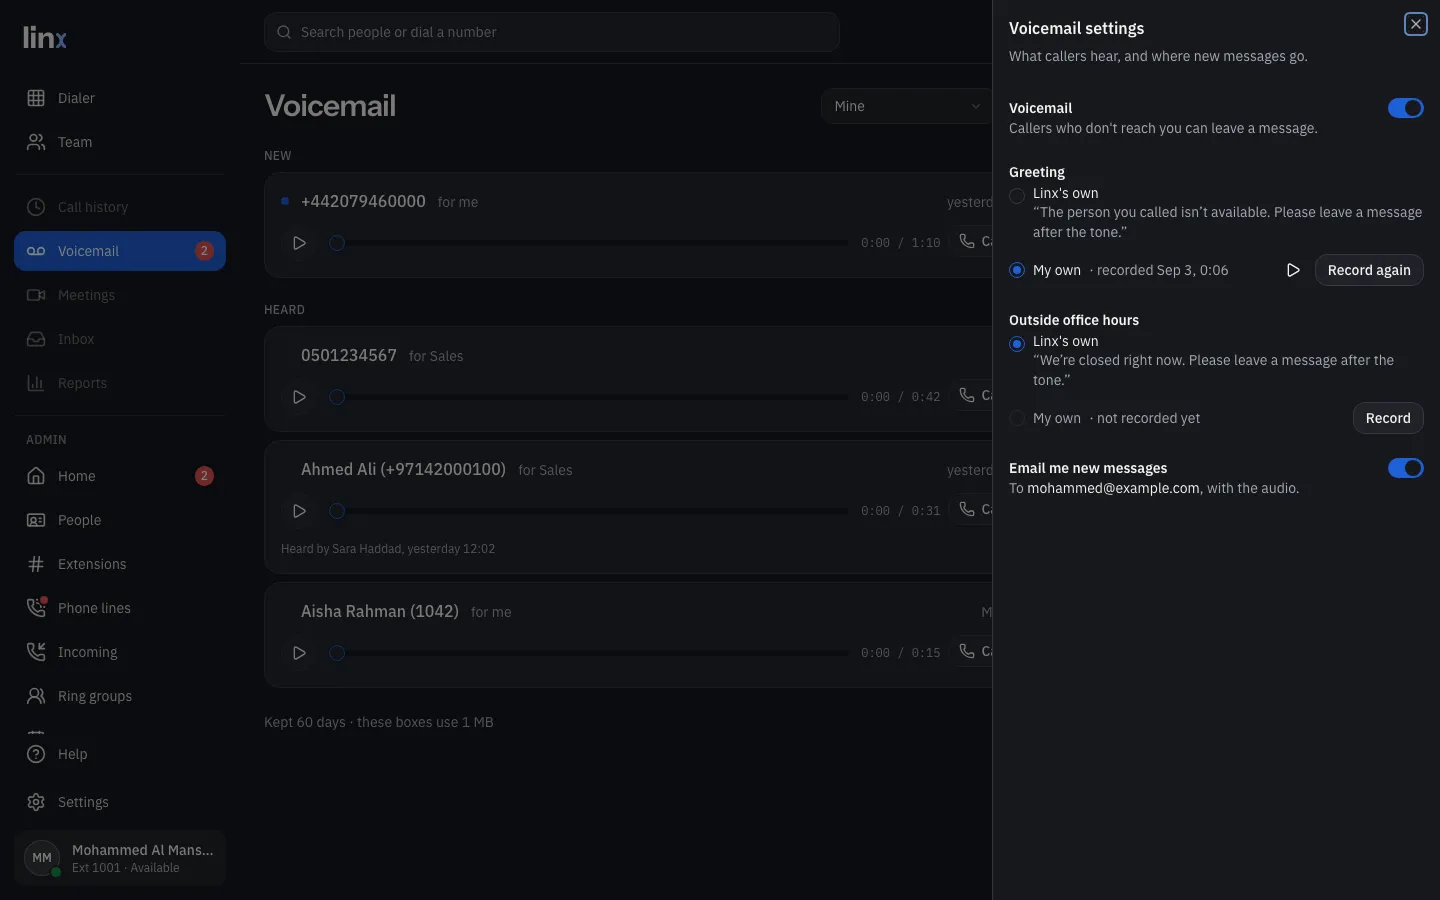
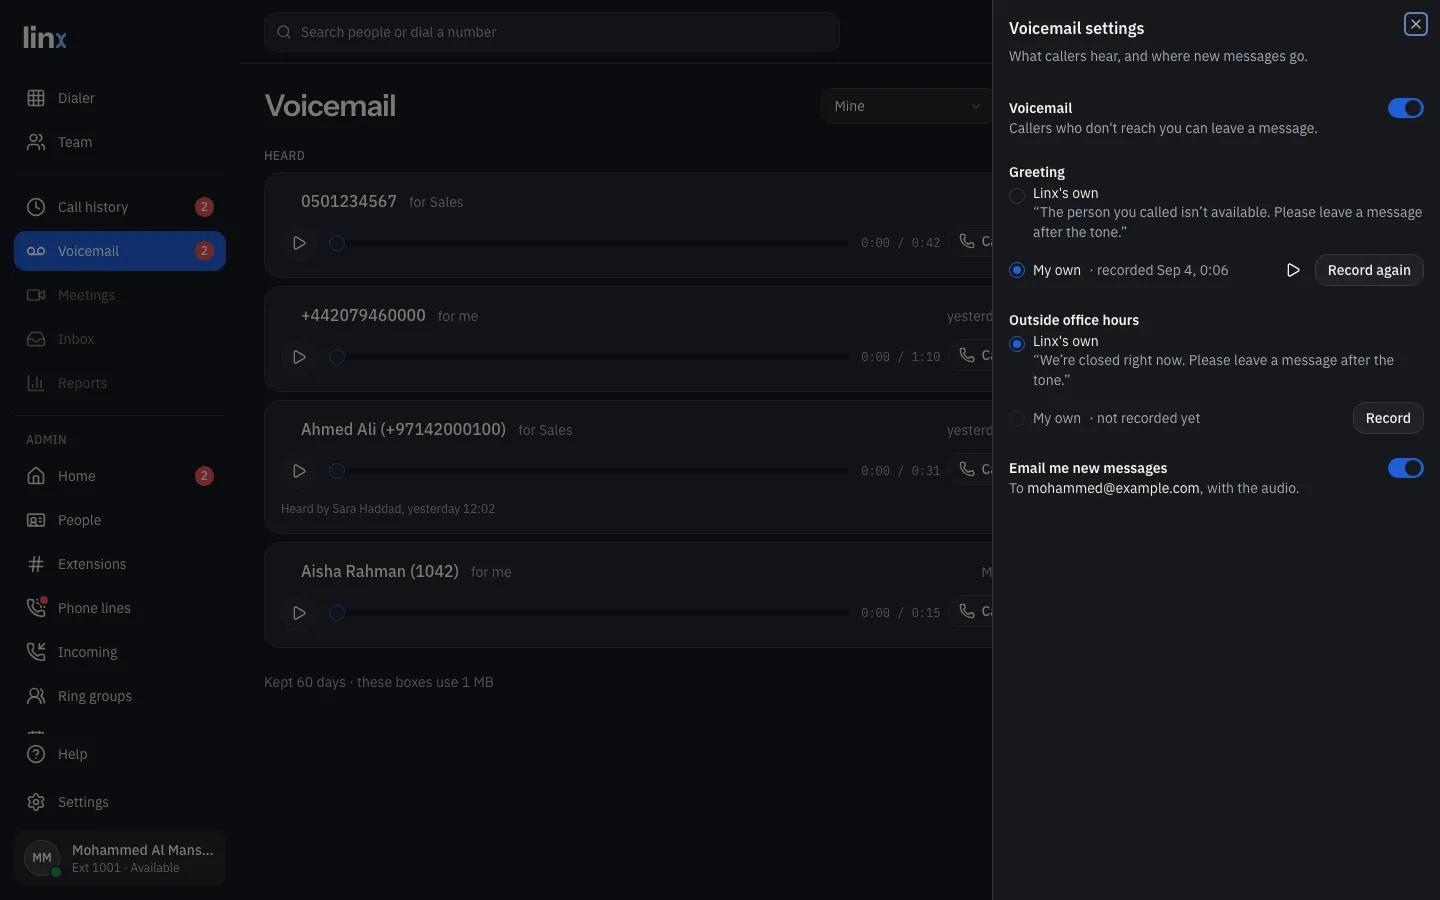
Voicemail: skipping to the end marks a message heard
Only playing a message out marked it heard; taking the slider to its end
didn't. The slider's handle now carries its name too, so screen readers
announce it. Found in Demo B.

Claude-Session: https://claude.ai/code/session_01JipRMDmMufjRX6khmanBGh

diff --git a/web/src/screens/Voicemail.tsx b/web/src/screens/Voicemail.tsx
@@ -45,12 +45,19 @@ export function when(iso: string, now = new Date()): string {
   return `${d.toLocaleDateString(undefined, { day: "numeric", month: "short" })} ${time}`;
 }
 
-/** The player: ▶, a slider, the time; marks the message heard when it plays to the end. */
+/** The player: ▶, a slider, the time; marks the message heard when it
+ * plays to the end, or the slider is taken to its end. */
 function Player({ m, onEnded }: { m: Message; onEnded: () => void }) {
   const audio = useRef<HTMLAudioElement | null>(null);
   const [playing, setPlaying] = useState(false);
   const [at, setAt] = useState(0);
   const total = m.duration_ms / 1000;
+  const reached = useRef(false);
+  const end = () => {
+    if (reached.current) return;
+    reached.current = true;
+    onEnded();
+  };
   useEffect(() => () => audio.current?.pause(), []);
   const toggle = () => {
     if (!audio.current) {
@@ -58,7 +65,7 @@ function Player({ m, onEnded }: { m: Message; onEnded: () => void }) {
       a.ontimeupdate = () => setAt(a.currentTime);
       a.onpause = () => setPlaying(false);
       a.onplay = () => setPlaying(true);
-      a.onended = () => { setPlaying(false); setAt(0); onEnded(); };
+      a.onended = () => { setPlaying(false); setAt(0); end(); };
       audio.current = a;
     }
     if (playing) audio.current.pause();
@@ -70,7 +77,13 @@ function Player({ m, onEnded }: { m: Message; onEnded: () => void }) {
         {playing ? <Pause aria-hidden="true" /> : <Play aria-hidden="true" />}
       </Button>
       <Slider aria-label="Position" className="min-w-16 flex-1" min={0} max={Math.max(1, Math.round(total * 10))} step={1}
-        value={[Math.round(at * 10)]} onValueChange={([v]) => { const t = (v ?? 0) / 10; setAt(t); if (audio.current) audio.current.currentTime = t; }} />
+        value={[Math.round(at * 10)]} onValueChange={([v]) => {
+          const t = (v ?? 0) / 10;
+          setAt(t);
+          if (audio.current) audio.current.currentTime = t;
+          // Taken to the end (the rest skipped): heard, as when it plays out.
+          if (t >= total - 0.5) end();
+        }} />
       <span className="w-20 shrink-0 text-end font-mono text-xs tabular-nums text-muted-foreground">{clock(at)} / {clock(total)}</span>
     </div>
   );

diff --git a/web/e2e/screens.spec.ts b/web/e2e/screens.spec.ts
@@ -633,6 +633,12 @@ for (const scheme of ["light", "dark"] as const) {
       // Playing to the end marks it heard.
       await page.getByRole("button", { name: "Play the message from 0501234567" }).click();
       await expect(page.getByRole("region", { name: "HEARD" })).toContainText("0501234567");
+      // So does taking the slider to the end without playing the rest
+      // (found in Demo B).
+      const left = page.getByRole("region", { name: "NEW" });
+      await left.getByRole("slider", { name: "Position" }).first().focus();
+      await page.keyboard.press("End");
+      await expect(page.getByRole("region", { name: "NEW" })).toHaveCount(0);
 
       // Settings: my greeting, recorded; email on.
       await page.getByRole("main").getByRole("button", { name: "Settings" }).click();

diff --git a/web/src/components/ui/slider.tsx b/web/src/components/ui/slider.tsx
@@ -8,6 +8,7 @@ function Slider({
   value,
   min = 0,
   max = 100,
+  "aria-label": ariaLabel,
   ...props
 }: React.ComponentProps<typeof SliderPrimitive.Root>) {
   const _values = React.useMemo(
@@ -50,6 +51,8 @@ function Slider({
         <SliderPrimitive.Thumb
           data-slot="slider-thumb"
           key={index}
+          // The handle is what a screen reader announces: it carries the name.
+          aria-label={ariaLabel}
           className="block size-4 shrink-0 rounded-full border border-primary bg-card shadow-sm ring-ring/50 transition-[color,box-shadow] hover:ring-4 focus-visible:ring-4 focus-visible:outline-hidden disabled:pointer-events-none disabled:opacity-50"
         />
       ))}

diff --git a/docs/help/voicemail.md b/docs/help/voicemail.md
@@ -13,7 +13,7 @@ When nobody answers, callers can leave a message. **Voicemail** in the sidebar s
 
 ## Listening
 
-- **New** messages are at the top with a dot. Press ▶ to listen; a message you play to the end moves to **Heard**.
+- **New** messages are at the top with a dot. Press ▶ to listen; a message you play to the end, or skip to its end with the slider, moves to **Heard**.
 - **Call back** rings the caller from your browser.
 - **⋯** has **Mark as new** (or **Mark as heard**), **Download** (a WAV file every computer and phone plays) and **Delete**.
 - If you're in a [ring group](ring-groups), its messages show here too, marked "for Sales". When someone in the group has heard one, the others see "Heard by Sara". Deleting a group's message deletes it for everyone in the group.
